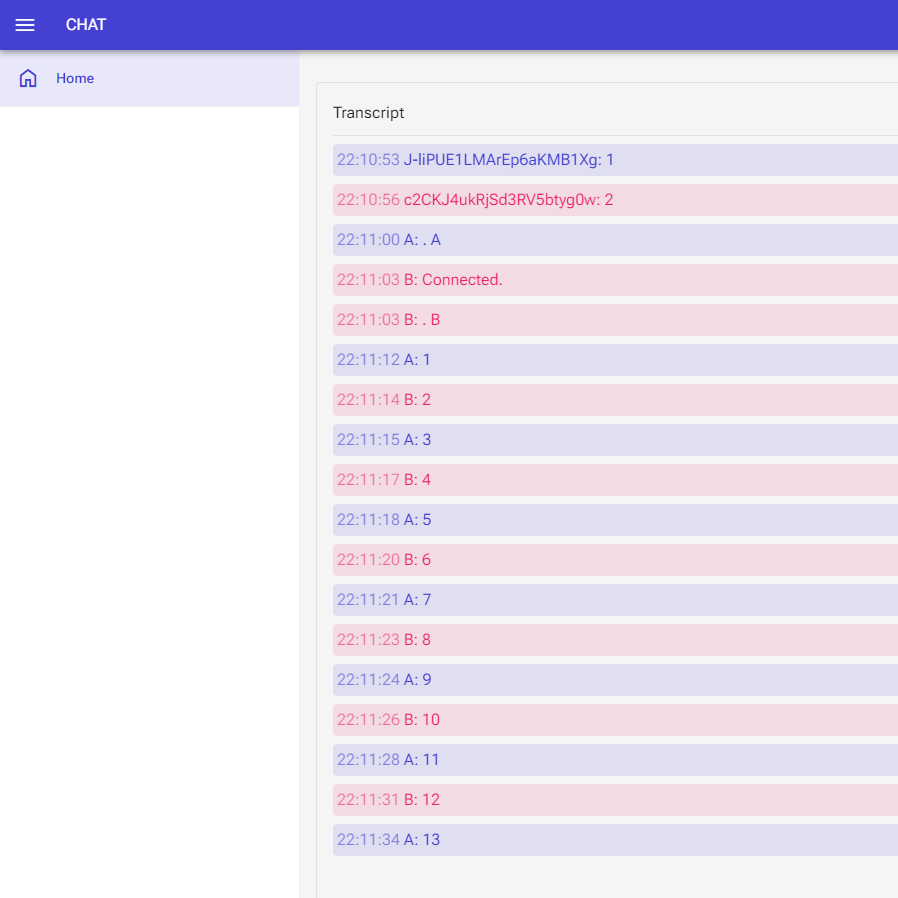
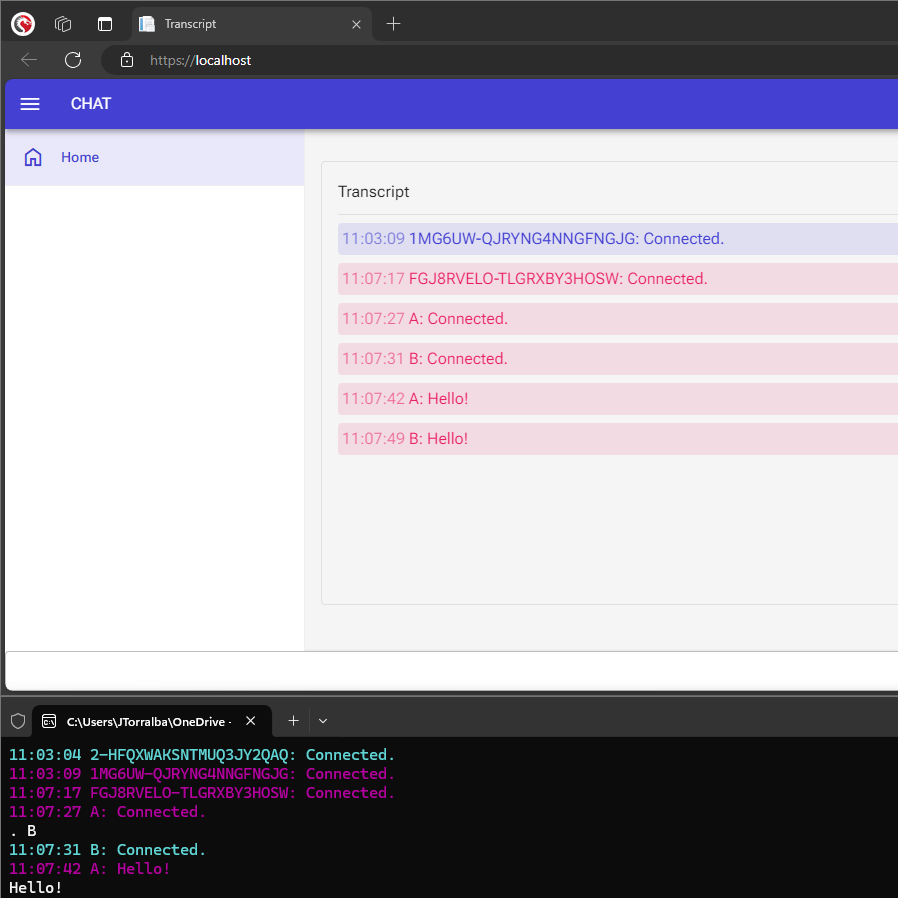
Create SignalR console client.

diff --git a/Terminal/Program.cs b/Terminal/Program.cs
@@ -1,0 +1,55 @@
+using Microsoft.AspNetCore.SignalR.Client;
+
+using Standard.Models;
+using Standard.Services;
+
+namespace Terminal
+{
+    public class Program
+    {
+        public static ChatService Chat = new ChatService();
+
+        static void Main(string[] args)
+        {
+            Chat.HubConnection.On<Connection, string>("ReceiveMessage", (connection, message) =>
+            {
+                //Console.WriteLine();
+                //Console.WriteLine($"Chat.cs ReceiveMessage {Chat.HubConnection.ConnectionId} {connection.ID} {connection.Alias} \"{message}\"");
+
+                if (connection.ID == Chat.HubConnection.ConnectionId || connection.Alias == Chat.Connection.Alias)
+                {
+                    Log($"{connection.Alias}: {message}", ConsoleColor.Cyan);
+                }
+                else
+                {
+                    Log($"{connection.Alias}: {message}", ConsoleColor.Magenta);
+                }
+
+                Console.ForegroundColor = ConsoleColor.White;
+            });
+
+            while (true)
+            {
+                var message = Console.ReadLine();
+
+                if (string.IsNullOrEmpty(message))
+                {
+                    break;
+                }
+
+                Chat.Send(message);
+            }
+
+            Console.ReadLine();
+        }
+
+        public static void Log(string message, ConsoleColor consoleColor = ConsoleColor.White)
+        {
+            Console.ForegroundColor = consoleColor;
+
+            Console.WriteLine($"{DateTime.Now.ToString("HH:mm:ss")} {message}");
+                
+            Console.ForegroundColor = ConsoleColor.White;
+        }
+    }
+}

diff --git a/Portal/Services/Chat.cs b/Portal/Services/Chat.cs
@@ -16,8 +16,8 @@ namespace Portal.Services
 
             HubConnection.On<Connection, string>("ReceiveMessage", (connection, message) =>
             {
-                Console.WriteLine();
-                Console.WriteLine($"Chat.cs ReceiveMessage {HubConnection.ConnectionId} {connection.ID} {connection.Alias} \"{message}\"");
+                //Console.WriteLine();
+                //Console.WriteLine($"Chat.cs ReceiveMessage {HubConnection.ConnectionId} {connection.ID} {connection.Alias} \"{message}\"");
 
                 if (connection.ID == HubConnection.ConnectionId || connection.Alias == Connection.Alias)
                 {
